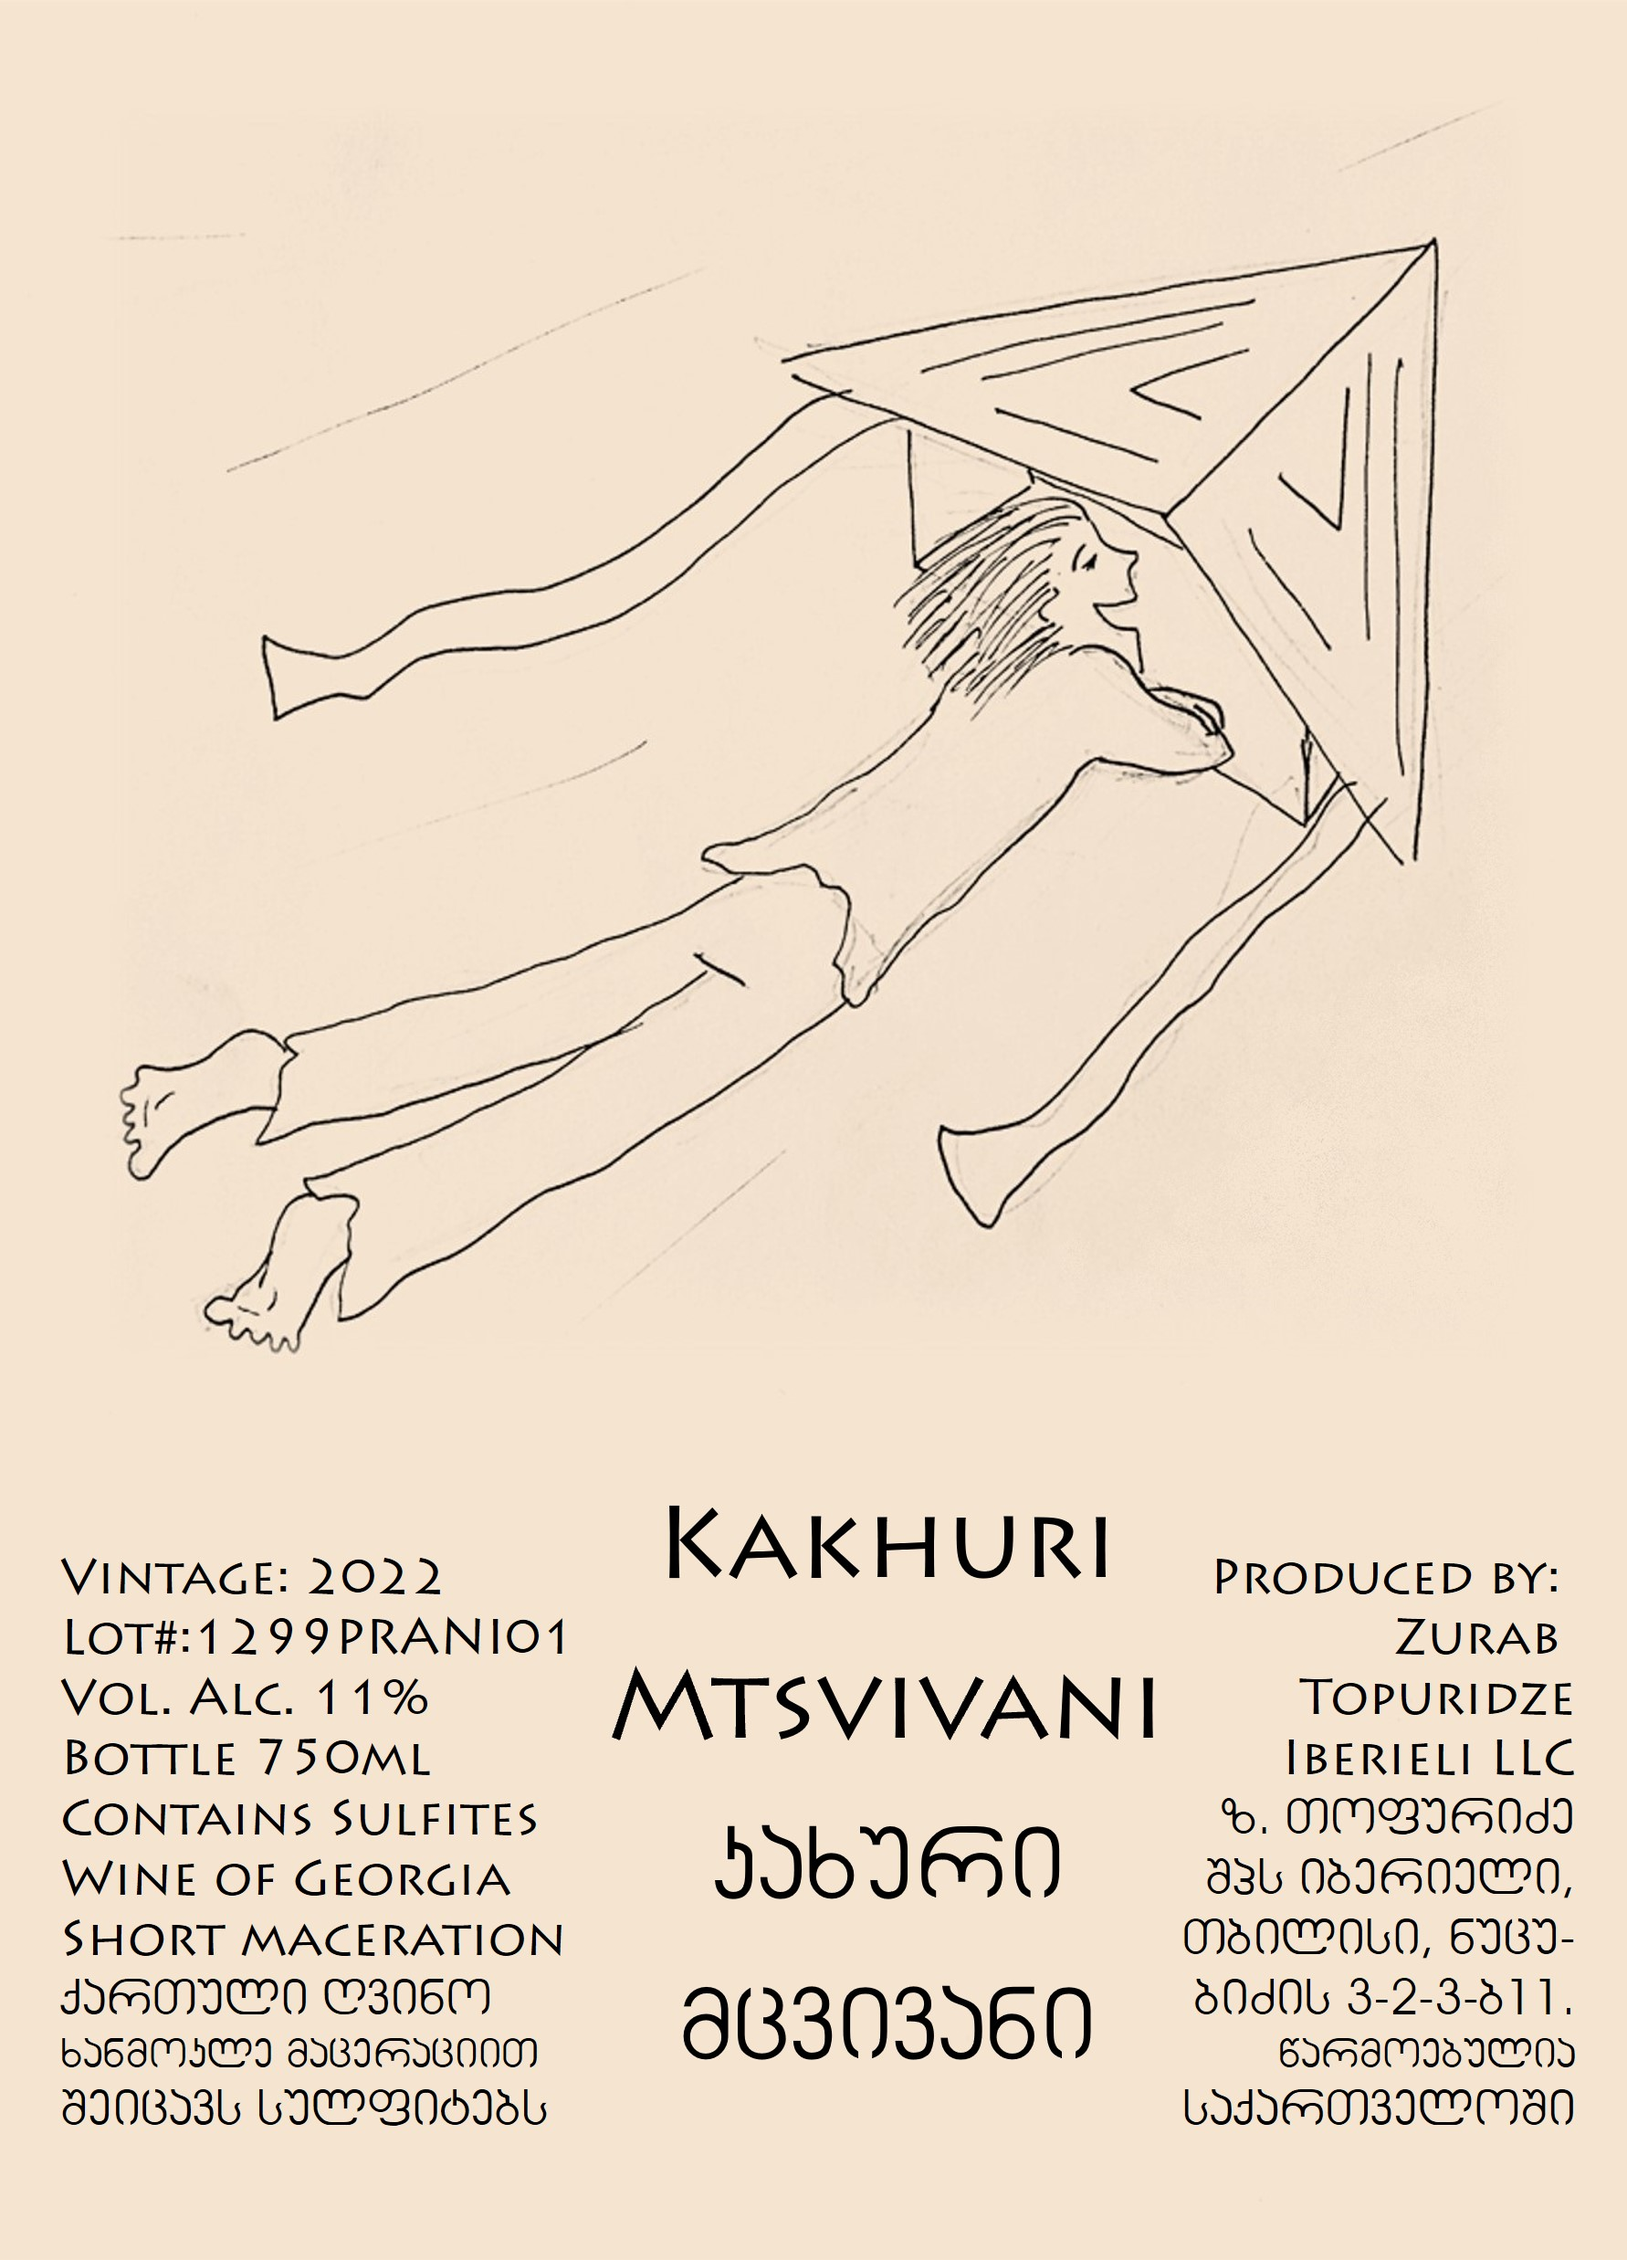
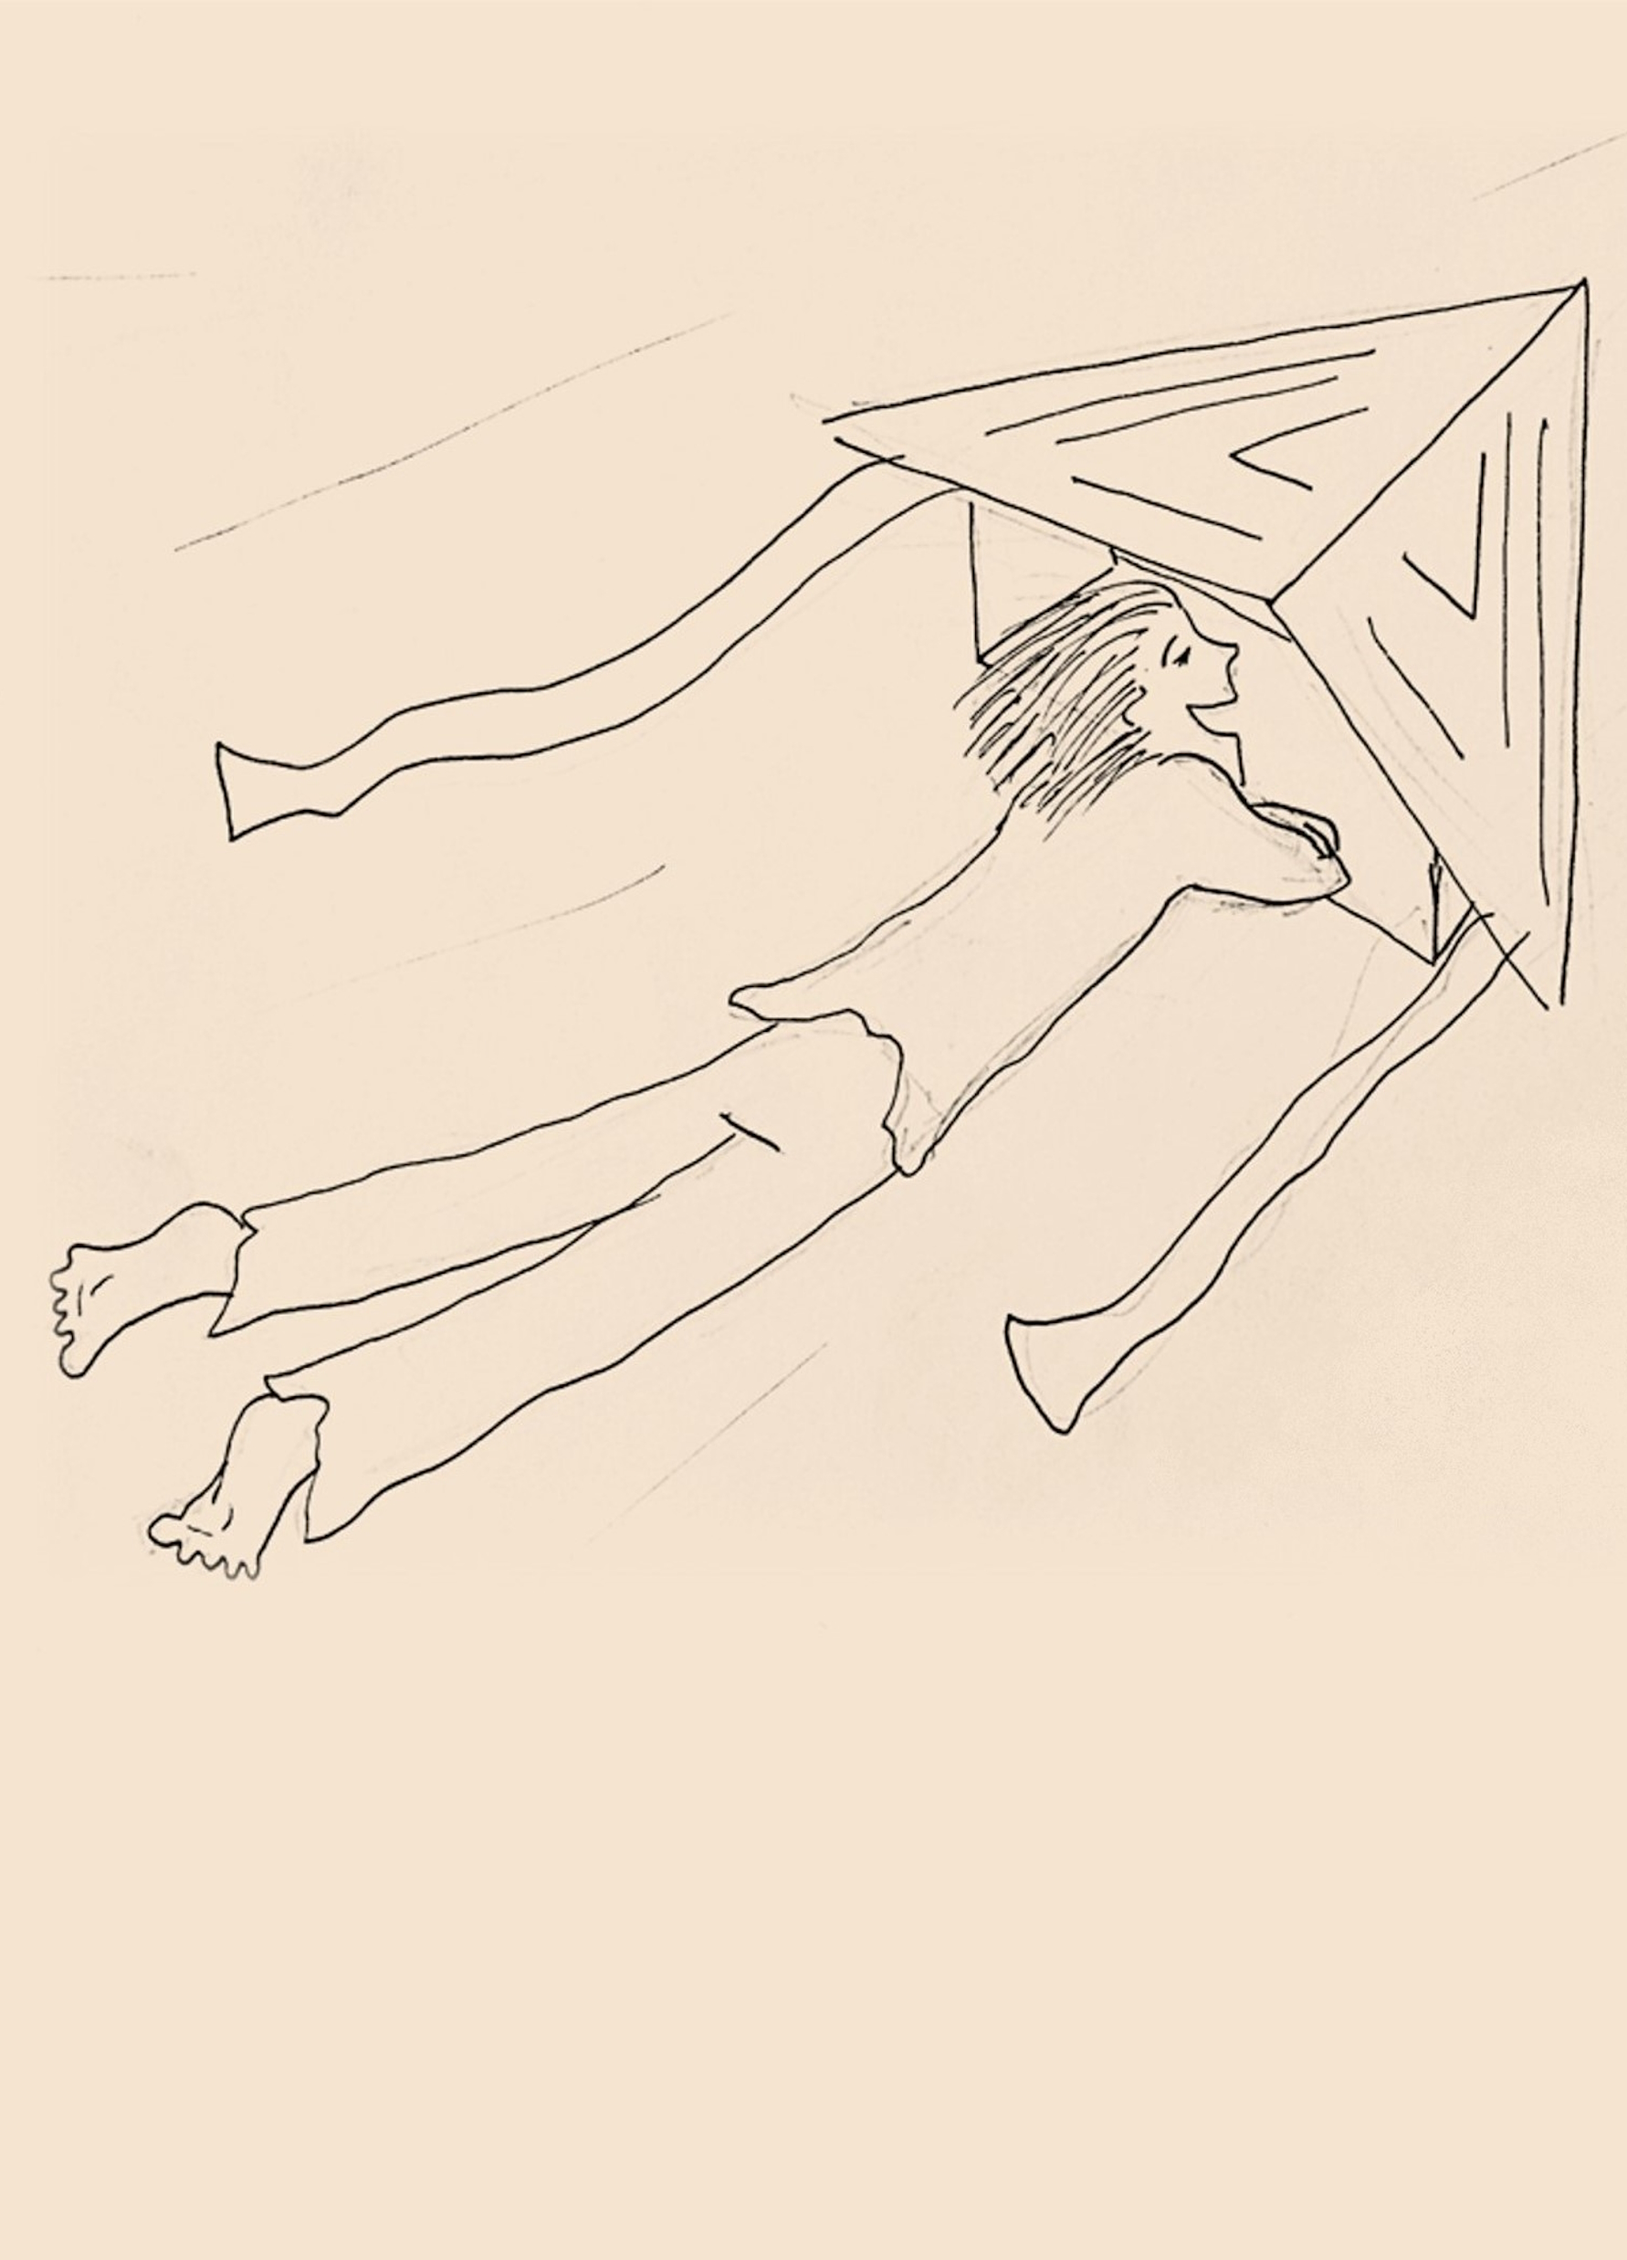
Added 2 more wines
Wines and their descriptions ;)

diff --git a/Wine Descriptions/Tetri Kamuri Tsolikauri.html b/Wine Descriptions/Tetri Kamuri Tsolikauri.html
@@ -14,7 +14,7 @@
     <link rel="stylesheet" href="../heading.css" />
     <link rel="stylesheet" href="wineinfo.css" />
     <script src="../heading.js"></script>
-    <title>Iberieli | Wines - Saperavi</title>
+    <title>Iberieli | Wines - Tetri Kamuri & Tsolikauri</title>
   </head>
   <body>
     <div class="heading" id="heading">
@@ -72,33 +72,40 @@
       </div>
     </div>
     <div class="wine-info">
-      <img src="../Photos/Etiquettes/Saperavi.jpg" alt="Wine Etiquette" />
-      <h2>Saperavi</h2>
+      <img
+        src="../Photos/Etiquettes/Tetri kamuri tsolikouri.jpg"
+        alt="Wine Etiquette"
+      />
+      <h2>Tetri Kamuri & Tsolikauri</h2>
       <p>
         &emsp;<b>Description:</b>
-        Electric ruby, clear appearance. Aroma is intensive; blackberry,
-        barberry, mint, red raspberry. Taste of berries, barberry, bell paper.
-        Long finish, minerality.
+        Water white, green reflections, clear appearance. Tight and focussed,
+        pure lime fruit, linear and piercing, some phenolic grip, faint
+        bitterness that's perfectly in check, there's a diffuseness but serious
+        dierction.
       </p>
-      <p>&emsp;<b>Grape/Blend:</b> 100% Saperavi</p>
+      <p>&emsp;<b>Grape/Blend:</b> Tetri Kamuri 50% Tsolikouri 50%</p>
       <p>
         &emsp;<b>Food recommendations:</b>
-        Light cheese, Khachapuri, fried chicken, beef.
+        light cheese, Khachapuri, fried chicken, beef. Also, subtropical white
+        and yellow fruits.
       </p>
       <p>
         &emsp;<b>Terroir:</b>
-        Teliani appellation. Soil is stony alluvium, brownish grey, with sandy
-        loam and calcium content (PH 8.5). Gentle slope (3%), exposure to
-        south-east.
+        Sakvavistke village terroir. Brown and red loam soils, neutral and
+        slightly acidic, formed on heavily weathered basalts. Vineyards are on
+        slopes, exposed to south-west, south and south-east.
       </p>
 
       <p>
         &emsp;<b>Viticulture:</b>
-        trellis, vertical shoot positioning, grown mainly on bilateral cordons
-        or arched canes. Planted in 2001. Density: 3300 saplings/hectare.
+        some vineyards are on vertical trellis and grow mainly on bilateral
+        cordons or arched canes, with the density 2500 saplings/hectare. Some
+        vineyards are trained to 2 metre above floor horizontal trellis, like
+        pergola, density 625 saplings/hectare.
       </p>
 
-      <p>&emsp;<b>Yields:</b> approximately 25 hectolitres per hectare.</p>
+      <p>&emsp;<b>Yields:</b> approximately 20 hectolitres per hectare.</p>
     </div>
     <div class="about-info">
       <div class="social-medias">

diff --git a/Wine Descriptions/Mtsvivani.html b/Wine Descriptions/Mtsvivani.html
@@ -14,7 +14,7 @@
     <link rel="stylesheet" href="../heading.css" />
     <link rel="stylesheet" href="wineinfo.css" />
     <script src="../heading.js"></script>
-    <title>Iberieli | Wines - Saperavi</title>
+    <title>Iberieli | Wines - Mtsvivani</title>
   </head>
   <body>
     <div class="heading" id="heading">
@@ -72,18 +72,18 @@
       </div>
     </div>
     <div class="wine-info">
-      <img src="../Photos/Etiquettes/Saperavi.jpg" alt="Wine Etiquette" />
-      <h2>Saperavi</h2>
+      <img src="../Photos/Etiquettes/Mtsvivani.jpg" alt="Wine Etiquette" />
+      <h2>Mtsvivani</h2>
       <p>
         &emsp;<b>Description:</b>
-        Electric ruby, clear appearance. Aroma is intensive; blackberry,
-        barberry, mint, red raspberry. Taste of berries, barberry, bell paper.
-        Long finish, minerality.
+        Pale lemon, clear appearance. Very light and citrus, less characterful
+        than on the nose, has a Trebbiano/Vermentino kind of simpleness, direct
+        and clean, gentle but present rolling tannins, gentle acidity.
       </p>
-      <p>&emsp;<b>Grape/Blend:</b> 100% Saperavi</p>
+      <p>&emsp;<b>Grape/Blend:</b> Mtsvivani 100%</p>
       <p>
         &emsp;<b>Food recommendations:</b>
-        Light cheese, Khachapuri, fried chicken, beef.
+        Cheese, Khachapuri, fried chicken, light snacks.
       </p>
       <p>
         &emsp;<b>Terroir:</b>
@@ -94,11 +94,14 @@
 
       <p>
         &emsp;<b>Viticulture:</b>
-        trellis, vertical shoot positioning, grown mainly on bilateral cordons
-        or arched canes. Planted in 2001. Density: 3300 saplings/hectare.
+        Trellis, vertical shoot positioning, grown mainly on bilateral cordons
+        or arched canes. One year old seedlings planted in spring of 2015.
+        Density: 3800 saplings/hectare.
       </p>
 
-      <p>&emsp;<b>Yields:</b> approximately 25 hectolitres per hectare.</p>
+      <p>
+        &emsp;<b>Yields:</b> approximately 20 hectolitres (wine) per hectare.
+      </p>
     </div>
     <div class="about-info">
       <div class="social-medias">

diff --git a/wines.html b/wines.html
@@ -14,7 +14,7 @@
     <link rel="stylesheet" href="heading.css" />
     <script src="heading.js"></script>
     <link rel="stylesheet" href="wines.css" />
-    <title>Iberieli Wines</title>
+    <title>Iberieli | Wines</title>
   </head>
   <body>
     <div class="heading" id="heading">
@@ -118,12 +118,25 @@
       </div>
       <div
         class="one-wine"
-        onclick='switch_pages("Wine Descriptions/Chkhaveri.html")'
+        onclick='switch_pages("Wine Descriptions/Tetri Kamuri Tsolikauri.html")'
       >
-        <img alt="wine logo" src="Photos/Etiquettes/Chkhaveri.jpg" />
+        <img
+          alt="wine logo"
+          src="Photos/Etiquettes/Tetri kamuri tsolikouri.jpg"
+        />
         <div class="wine-desc">
-          <h2>Chkhaveri</h2>
-          <p>wine description</p>
+          <h2>Tetri Kamuri & Tsolikauri</h2>
+          <p>Water white, clear appearance <b>Read More...</b></p>
+        </div>
+      </div>
+      <div
+        class="one-wine"
+        onclick='switch_pages("Wine Descriptions/Mtsvivani.html")'
+      >
+        <img alt="wine logo" src="Photos/Etiquettes/Mtsvivani.jpg" />
+        <div class="wine-desc">
+          <h2>Mtsvivani</h2>
+          <p>Pale lemon, clear appearance. <b>Read More...</b></p>
         </div>
       </div>
     </div>

diff --git a/Wine Descriptions/wineinfo.css b/Wine Descriptions/wineinfo.css
@@ -2,6 +2,9 @@
   display: inline-block;
   font-size: larger;
   padding: 2vw;
+
+  height: 100svh;
+  font-size: 100%;
 }
 
 .wine-info > * {
@@ -14,7 +17,7 @@
 
 .wine-info > img {
   float: left;
-  width: 25vw;
+  width: 50svh;
   border-radius: 8%;
   border: 1px solid black;
 
@@ -26,6 +29,8 @@
     display: flex;
     flex-direction: column;
     font-size: 5vmin;
+
+    height: auto;
   }
 
   .wine-info > * {

diff --git a/Wine Descriptions/Golden Blend.html b/Wine Descriptions/Golden Blend.html
@@ -14,7 +14,7 @@
     <link rel="stylesheet" href="../heading.css" />
     <link rel="stylesheet" href="wineinfo.css" />
     <script src="../heading.js"></script>
-    <title>Iberieli Wines - Golden Blend</title>
+    <title>Iberieli | Wines - Golden Blend</title>
   </head>
   <body>
     <div class="heading" id="heading">

diff --git a/Wine Descriptions/Chkhaveri.html b/Wine Descriptions/Chkhaveri.html
@@ -14,7 +14,7 @@
     <link rel="stylesheet" href="../heading.css" />
     <link rel="stylesheet" href="wineinfo.css" />
     <script src="../heading.js"></script>
-    <title>Iberieli Wines - Chkhaveri</title>
+    <title>Iberieli | Wines - Chkhaveri</title>
   </head>
   <body>
     <div class="heading" id="heading">

diff --git a/empty.html b/empty.html
@@ -10,7 +10,7 @@
     <link rel="icon" type="image/png" href="Photos/Iberieli Logo.jpg" />
     <link rel="stylesheet" href="heading.css" />
     <script src="heading.js"></script>
-    <title>Iberieli Wines</title>
+    <title>Iberieli | Wines</title>
   </head>
   <body>
     <div class="heading" id="heading">

diff --git a/contact.html b/contact.html
@@ -14,7 +14,7 @@
     <link rel="stylesheet" href="heading.css" />
     <link rel="stylesheet" href="contact.css" />
     <script src="heading.js"></script>
-    <title>Iberieli Contact</title>
+    <title>Iberieli | Contact</title>
   </head>
   <body>
     <div class="heading" id="heading">

diff --git a/about.html b/about.html
@@ -14,7 +14,7 @@
     <link rel="stylesheet" href="heading.css" />
     <link rel="stylesheet" href="about.css" />
     <script src="heading.js"></script>
-    <title>Iberieli About</title>
+    <title>Iberieli | About</title>
   </head>
   <body>
     <div class="heading" id="heading">

diff --git a/album.html b/album.html
@@ -14,7 +14,7 @@
     <link rel="stylesheet" href="heading.css" />
     <link rel="stylesheet" href="album.css" />
     <script src="heading.js"></script>
-    <title>Iberieli Album</title>
+    <title>Iberieli | Album</title>
   </head>
   <body>
     <div class="heading" id="heading">

diff --git a/home.html b/home.html
@@ -14,7 +14,7 @@
     <link rel="stylesheet" href="heading.css" />
     <script src="heading.js"></script>
     <link rel="stylesheet" href="home.css" />
-    <title>Iberieli Home</title>
+    <title>Iberieli | Home</title>
   </head>
   <body>
     <div class="heading" id="heading">

diff --git a/heading.css b/heading.css
@@ -290,6 +290,7 @@ body {
 @media screen and (max-width: 1200px) {
   .about-info {
     flex-direction: column-reverse;
+    height: auto;
   }
 
   .contact-button {
